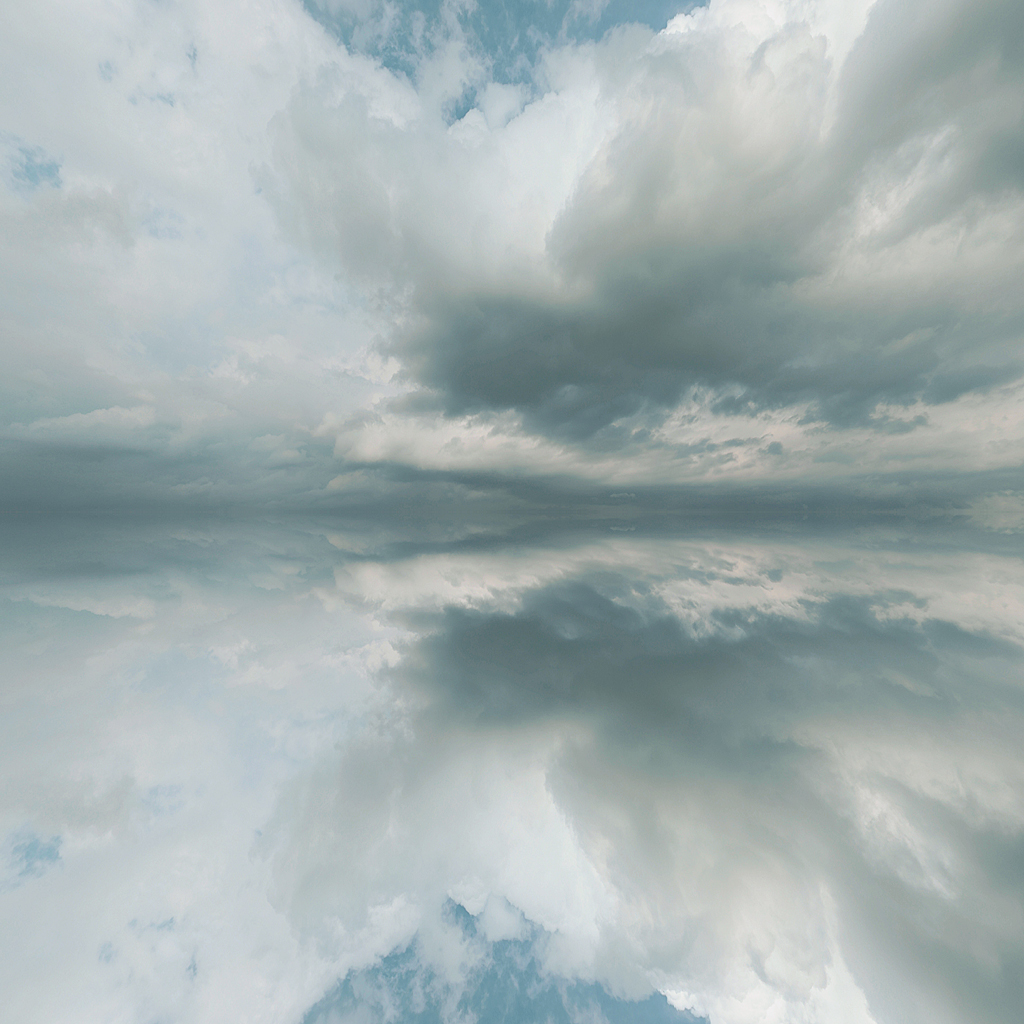
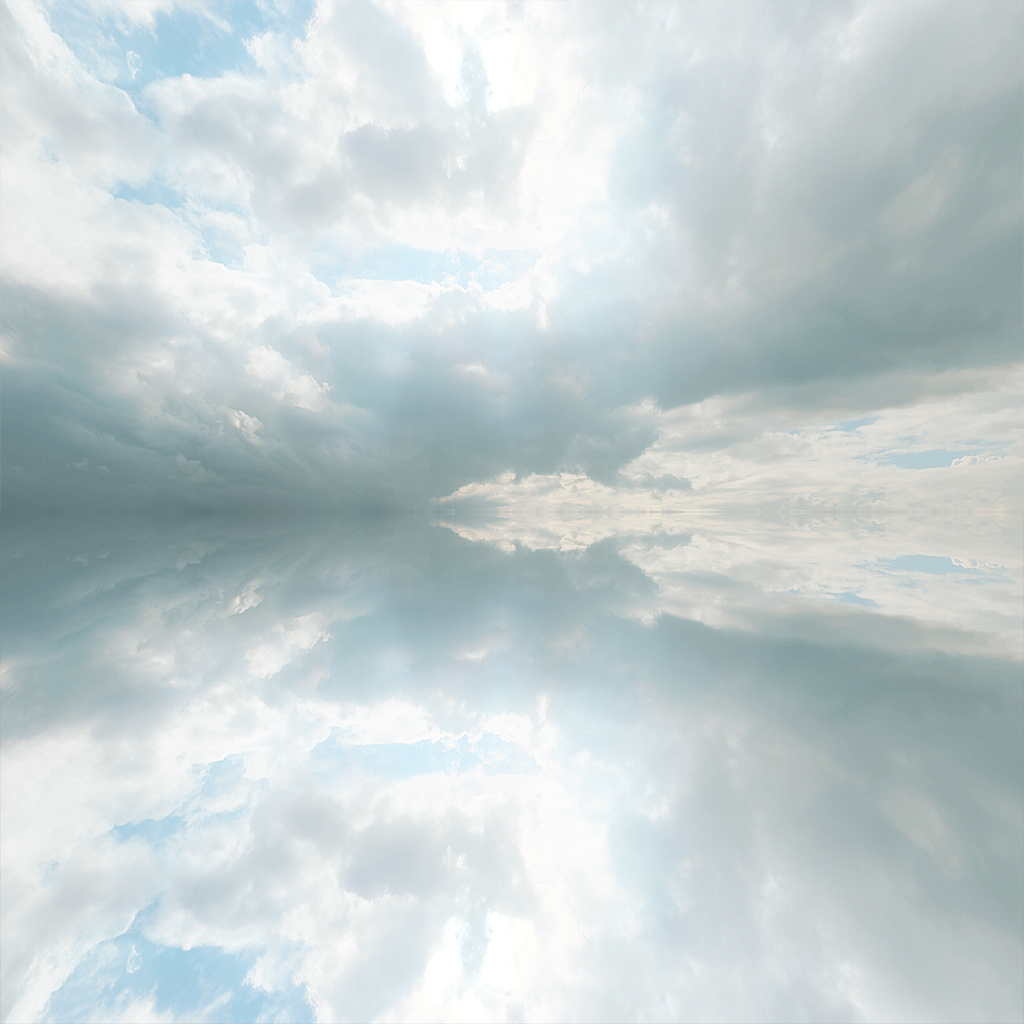
Optimized rendering by utilizing early depth test for environment. Added cubemap texture support and a skybox. Added a few skybox textures. Updated README for the project with new credits and a section about notable resources

diff --git a/src/client/gl/SkyRenderer.cpp b/src/client/gl/SkyRenderer.cpp
@@ -25,40 +25,52 @@ void SkyRenderer::LoadStars()
 
 void SkyRenderer::LoadSkybox()
 {
-    constexpr std::array<float, 8 * 3> vertices
+    const std::vector<float> skyboxVertices 
     {
-        -1.f, -1.f, 1.f,
-         1.f, -1.f, 1.f,
-         1.f,  1.f, 1.f,
-        -1.f,  1.f, 1.f,
+        // positions          
+        -1.0f,  1.0f, -1.0f,
+        -1.0f, -1.0f, -1.0f,
+         1.0f, -1.0f, -1.0f,
+         1.0f, -1.0f, -1.0f,
+         1.0f,  1.0f, -1.0f,
+        -1.0f,  1.0f, -1.0f,
 
-        -1.f, -1.f, -1.f,
-         1.f, -1.f, -1.f,
-         1.f,  1.f, -1.f,
-        -1.f,  1.f, -1.f,
+        -1.0f, -1.0f,  1.0f,
+        -1.0f, -1.0f, -1.0f,
+        -1.0f,  1.0f, -1.0f,
+        -1.0f,  1.0f, -1.0f,
+        -1.0f,  1.0f,  1.0f,
+        -1.0f, -1.0f,  1.0f,
+
+         1.0f, -1.0f, -1.0f,
+         1.0f, -1.0f,  1.0f,
+         1.0f,  1.0f,  1.0f,
+         1.0f,  1.0f,  1.0f,
+         1.0f,  1.0f, -1.0f,
+         1.0f, -1.0f, -1.0f,
+
+        -1.0f, -1.0f,  1.0f,
+        -1.0f,  1.0f,  1.0f,
+         1.0f,  1.0f,  1.0f,
+         1.0f,  1.0f,  1.0f,
+         1.0f, -1.0f,  1.0f,
+        -1.0f, -1.0f,  1.0f,
+
+        -1.0f,  1.0f, -1.0f,
+         1.0f,  1.0f, -1.0f,
+         1.0f,  1.0f,  1.0f,
+         1.0f,  1.0f,  1.0f,
+        -1.0f,  1.0f,  1.0f,
+        -1.0f,  1.0f, -1.0f,
+
+        -1.0f, -1.0f, -1.0f,
+        -1.0f, -1.0f,  1.0f,
+         1.0f, -1.0f, -1.0f,
+         1.0f, -1.0f, -1.0f,
+        -1.0f, -1.0f,  1.0f,
+         1.0f, -1.0f,  1.0f
     };
-    constexpr std::array<unsigned, 36> indices
-    {
-        0, 1, 4,
-        0, 4, 3,
-
-        5, 4, 7,
-        5, 7, 6,
-
-        4, 0, 3,
-        4, 3, 7,
-
-        1, 5, 6,
-        1, 6, 4,
-
-        0, 1, 5,
-        0, 5, 4,
-
-        3, 4, 6,
-        3, 6, 7
-    };
-    m_skyVAO.m_vbo.Upload(vertices);
-    m_skyVAO.MakeEBO()->Upload(indices);
+    m_skyVAO.m_vbo.Upload(skyboxVertices);
 }
 
 SkyRenderer::SkyRenderer() noexcept
@@ -68,7 +80,7 @@ SkyRenderer::SkyRenderer() noexcept
     , m_starTex("res/sunMoon.png",2,1)
     , m_skyVAO({ { 0, 3, GL_FLOAT, GL_FALSE, 3 * sizeof(float), 0} })
     , m_skyShader("res/shaders/sky.vert", "res/shaders/sky.frag")
-    , m_skyTex("res/skybox/day","jpg")
+    , m_skyTex("res/skybox/realistic","jpg")
 {
     LoadStars();
     LoadSkybox();
@@ -82,6 +94,9 @@ void SkyRenderer::SetCameraRotateProject(const glm::mat4& rotProj) noexcept
     //    glm::sin(m_time * glm::pi<float>() * 2.f),-1.f,1.f) * 
     const auto rot = glm::rotate(m_time * glm::pi<float>() * 2.f, glm::vec3(0, 0, 1));
     m_starShader.SetMatrix("aRotProj", glm::value_ptr(rotProj * rot));
+
+    m_skyShader.Bind();
+    m_skyShader.SetMatrix("aRotProj", glm::value_ptr(rotProj));
 }
 
 void SkyRenderer::SetTime(float t) noexcept
@@ -154,11 +169,21 @@ void SkyRenderer::Display()
 {
     glDepthMask(GL_FALSE);
     //glDepthFunc(GL_LESS);
+
+    // Render skybox
+    m_skyShader.Bind();
+    m_skyTex.Bind();
+    m_skyVAO.Bind();
+    glDrawArrays(GL_TRIANGLES, 0, 36);
+    //glDrawElements(GL_TRIANGLES, m_skyVAO.m_ebo->ElementCount(), GL_UNSIGNED_INT, 0);
+
+    // Render stars
     m_starShader.Bind();
     m_starTex.Bind();
     //m_skybox.Bind();
     m_starVAO.Bind();
     glDrawElements(GL_TRIANGLES, m_starVAO.m_ebo->ElementCount(), GL_UNSIGNED_INT, 0);
+    
     m_starVAO.Unbind();
     glDepthMask(GL_TRUE);
 }

diff --git a/src/client/gl/Texture.cpp b/src/client/gl/Texture.cpp
@@ -29,7 +29,7 @@ Texture::Texture(const char* path)
     }
     else
     {
-        std::cout << "Failed to load texture" << std::endl;
+        std::cout << "Failed to load texture: " << path << std::endl;
     }
     stbi_image_free(data);
 
@@ -90,7 +90,7 @@ TextureAtlas::TextureAtlas(const char* path, unsigned x, unsigned y)
     }
     else
     {
-        std::cout << "Failed to load texture" << std::endl;
+        std::cout << "Failed to load texture: " << path << std::endl;
     }
     stbi_image_free(data);
 
@@ -100,41 +100,48 @@ TextureAtlas::TextureAtlas(const char* path, unsigned x, unsigned y)
 
 TextureCubemap::TextureCubemap(const char* dir, const char* extension)
 {
+    Bind();
+
+    //#define GL_TEXTURE_CUBE_MAP_POSITIVE_X 0x8515
+    //#define GL_TEXTURE_CUBE_MAP_NEGATIVE_X 0x8516
+    //#define GL_TEXTURE_CUBE_MAP_POSITIVE_Y 0x8517
+    //#define GL_TEXTURE_CUBE_MAP_NEGATIVE_Y 0x8518
+    //#define GL_TEXTURE_CUBE_MAP_POSITIVE_Z 0x8519
+    //#define GL_TEXTURE_CUBE_MAP_NEGATIVE_Z 0x851A
+
     const std::string image[6]
     {
-        dir + std::string("right.") + extension,
-        dir + std::string("left.") + extension,
-        dir + std::string("top.") + extension,
-        dir + std::string("bottom.") + extension,
-        dir + std::string("back.") + extension,
-        dir + std::string("front.") + extension
+        dir + std::string("/right.") + extension,
+        dir + std::string("/left.") + extension,
+        dir + std::string("/top.") + extension,
+        dir + std::string("/bottom.") + extension,
+        dir + std::string("/front.") + extension,
+        dir + std::string("/back.") + extension,
     };
 
+    stbi_set_flip_vertically_on_load(false);
     for (int i = 0; i < 6; i++)
     {
         int width, height, nrChannels;
-        stbi_set_flip_vertically_on_load(true);
 
-        unsigned char* data = stbi_load(image[i].c_str(), &width, &height, &nrChannels, STBI_rgb_alpha);
-
+        unsigned char* data = stbi_load(image[i].c_str(), &width, &height, &nrChannels, STBI_rgb);
+        std::cout << nrChannels << '\n';
         if (data)
         {
             glTexImage2D(
                 GL_TEXTURE_CUBE_MAP_POSITIVE_X + i,
                 0,
-                GL_RGBA,
+                GL_RGB,
                 width,
                 height,
                 0,
-                GL_RGBA,
+                GL_RGB,
                 GL_UNSIGNED_BYTE,
                 data);
-
-            glGenerateMipmap(GL_TEXTURE_2D);
         }
         else
         {
-            std::cout << "Failed to load texture" << std::endl;
+            std::cout << "Failed to load texture: " << image[i] << std::endl;
         }
         stbi_image_free(data);
     }

diff --git a/src/Main.cpp b/src/Main.cpp
@@ -171,8 +171,8 @@ private:
         // Render contents to the screen
         m_window.Clear();
 
-        m_skyRenderer.Display();
         m_chunkRenderer.Display();
+        m_skyRenderer.Display();
 
         // TODO: Make a player renderer/entity renderer
         m_playerMesh->Draw(*m_camera);

diff --git a/src/client/gl/Window.cpp b/src/client/gl/Window.cpp
@@ -83,6 +83,8 @@ Window::Window(Config config)
         //    GL_DEBUG_SEVERITY_MEDIUM, -1, "Test error message!");
 
         glEnable(GL_DEPTH_TEST);
+        glDepthFunc(GL_LEQUAL);
+
         glEnable(GL_CULL_FACE);
 
         //glPolygonMode(GL_FRONT_AND_BACK, GL_LINE);

diff --git a/README.md b/README.md
@@ -18,3 +18,13 @@ I have no plans for using other build systems as that is not the focus of the pr
 
 ### Credits
 * Textures taken from [here](https://soartex.net/downloads/)
+* Skybox images taken from [here](https://opengameart.org/content/cloudy-skyboxes)
+
+### Notable resources
+I'll list resources here that I've referred to a lot during development, thought it would be nice to see it again in the future:
+* [Hazel Game engine](https://github.com/thecherno/hazel). Looked at structure and graphics implementation.
+* [Open-builder](https://github.com/Hopson97/open-builder). One of the inspirations that made me start this project. I've looked at the graphics implementation. 
+* [Learn OpenGL](http://learnopengl.com/). I've worked with OpenGL [before](https://github.com/antjowie/Empires) but it was quite a while ago. I've used this site as a refresher and copied quite a lot of implementations from it (such as shaders).
+* [OpenGL tutorial](http://www.opengl-tutorial.org/). Referred to it a bit when writing a instance based renderer.
+* [DocsGL](http://docs.gl/). Nice documentation for OpenGL since reading wiki and specs is more tiring.
+* [Gaffer On Games](https://gafferongames.com/tags/networking/). Learned about networking for development. This was a very nice primer about networking.
